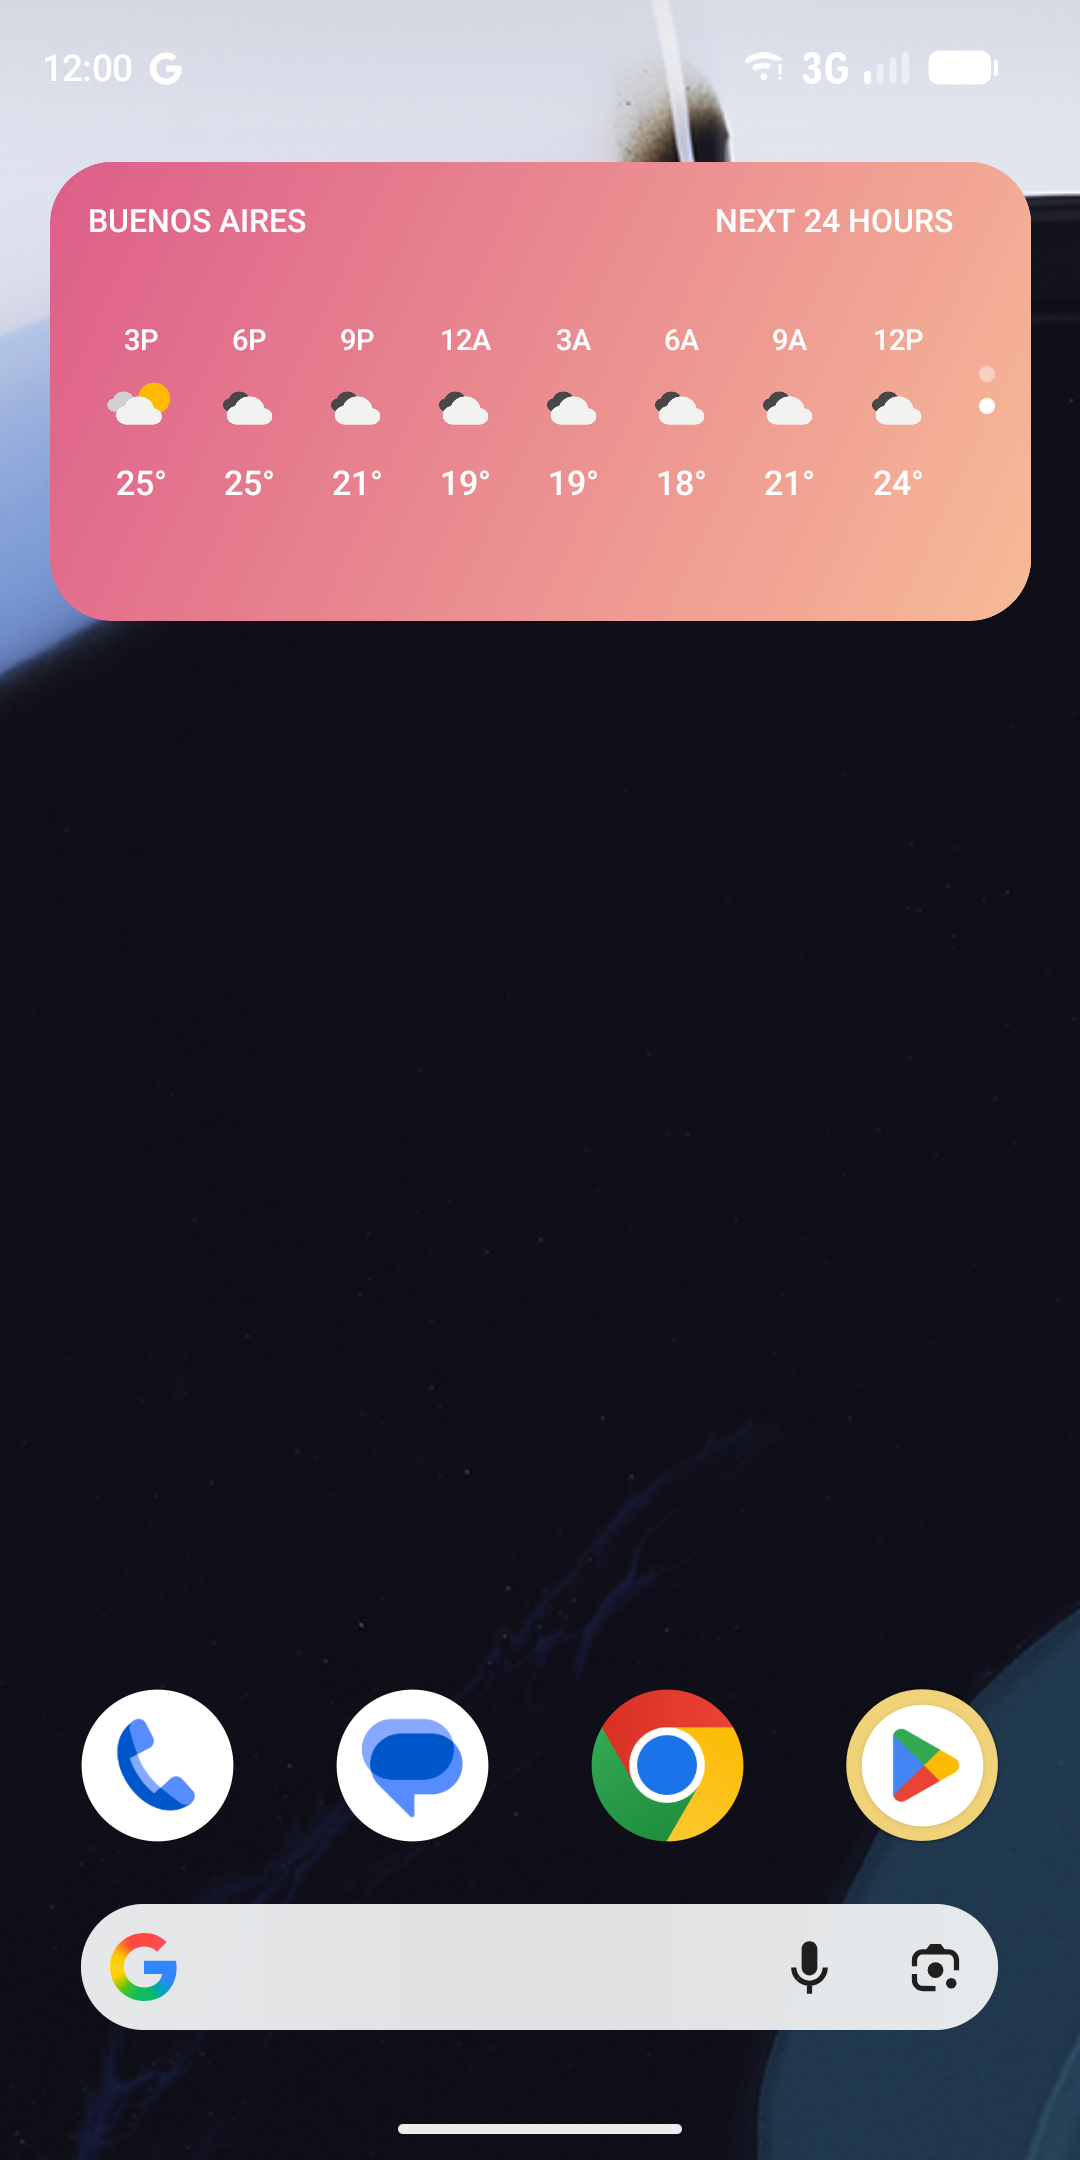
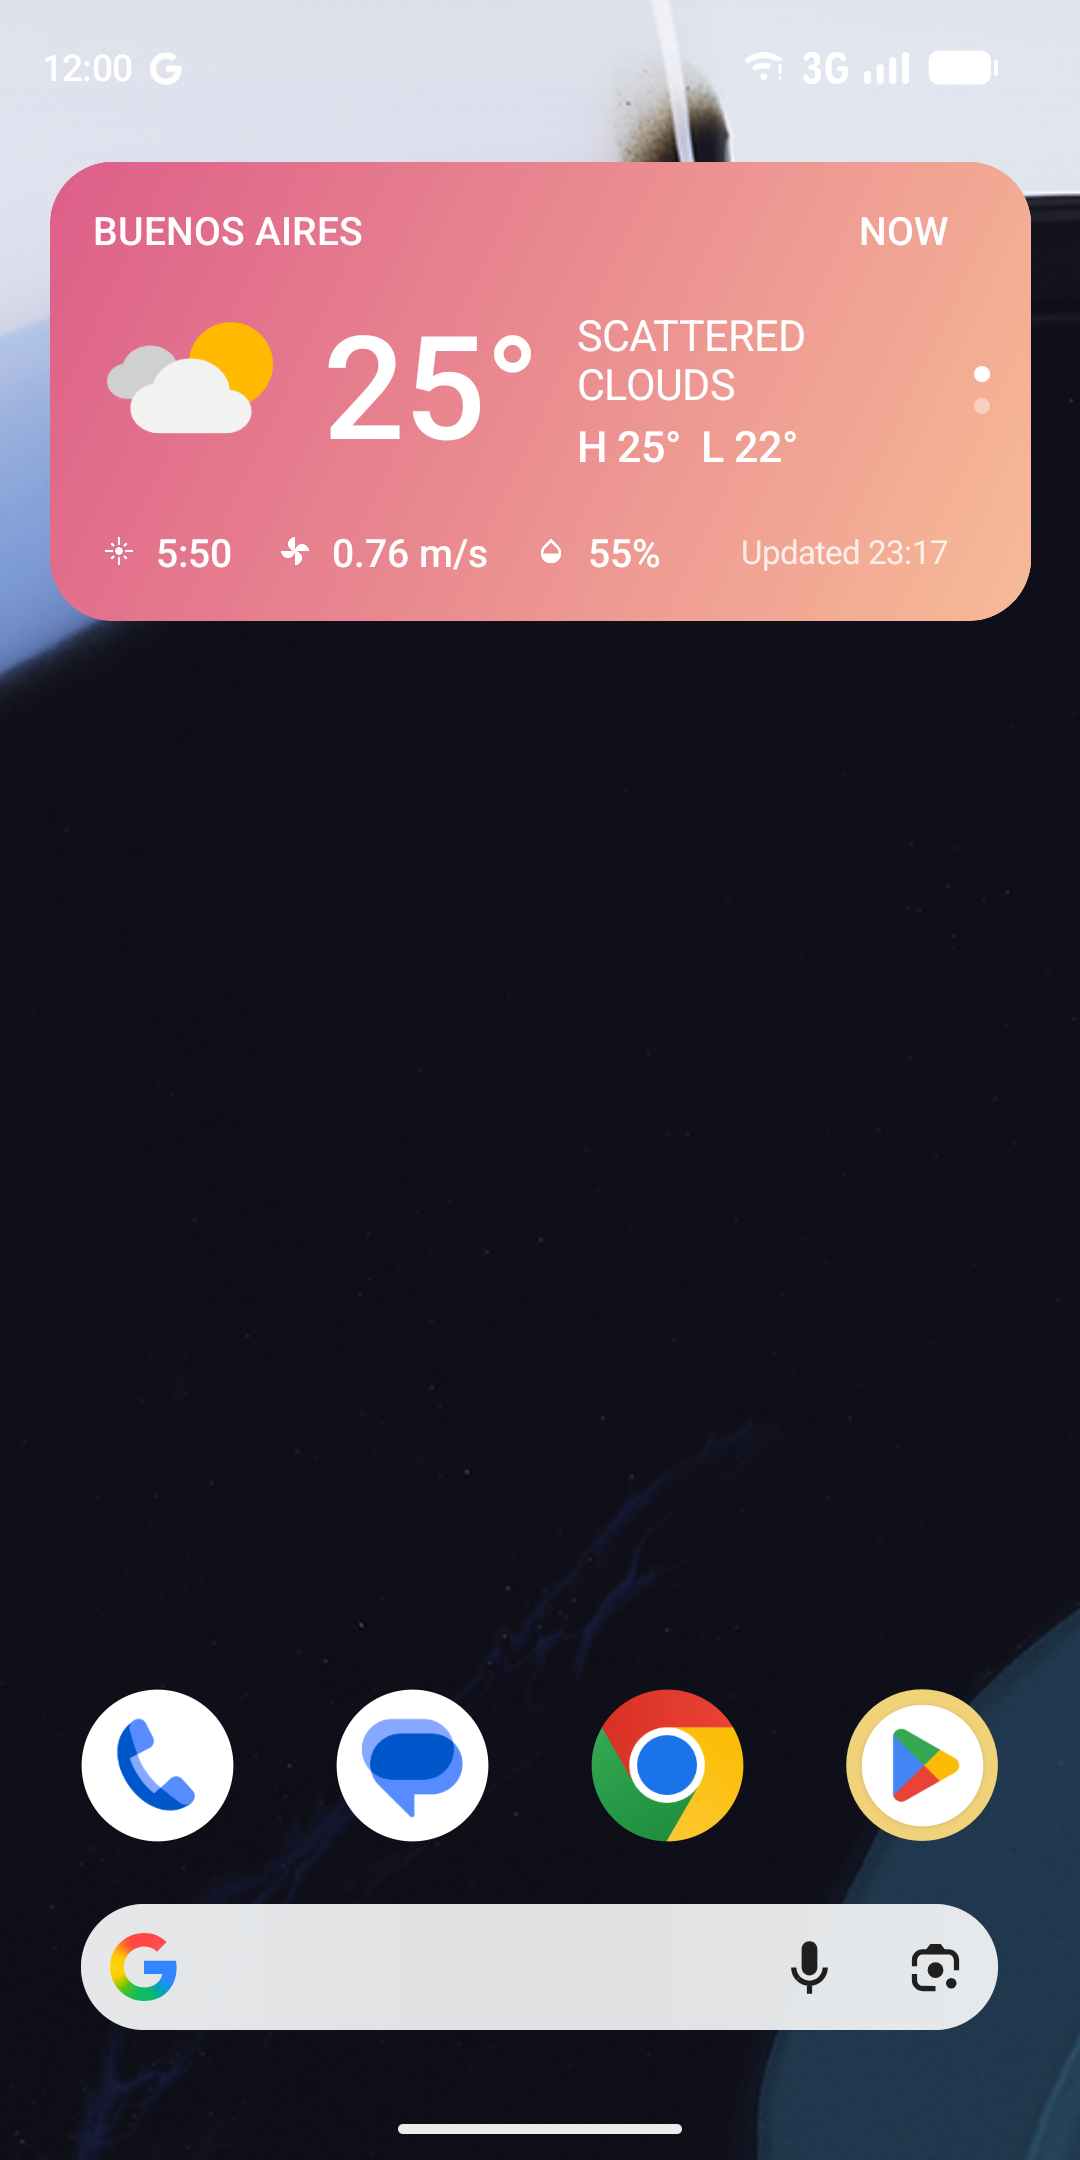
Widget: fill the card and show more on the Now page
The flat card left the content small inside a full 4x2 widget. The Now
page now has a larger icon and temperature, the description with high/low
beside them, and a row with sunrise, wind and humidity using the app's own
detail icons (rendered from icons.flr like the weather icons). On Android
12+ text and icons on both pages scale with the card, up to 1.6x.

diff --git a/android/app/src/main/kotlin/com/example/flutterweather/WeatherWidgetProvider.kt b/android/app/src/main/kotlin/com/example/flutterweather/WeatherWidgetProvider.kt
@@ -105,9 +105,9 @@ class WeatherWidgetProvider : HomeWidgetProvider() {
 
         val items = RemoteViewsCompat.RemoteCollectionItems.Builder().setViewTypeCount(2)
         if (content.city != null && content.now != null) {
-            items.addItem(0, nowCard(context, content.city, content.updated, content.now).sizedTo(size))
+            items.addItem(0, nowCard(context, content.city, content.updated, content.now, size).sizedTo(size))
             if (content.hours.isNotEmpty()) {
-                items.addItem(1, hoursCard(context, content.city, content.hours).sizedTo(size))
+                items.addItem(1, hoursCard(context, content.city, content.hours, size).sizedTo(size))
             }
         }
         RemoteViewsCompat.setRemoteAdapter(context, views, widgetId, R.id.widget_stack, items.build())
@@ -140,20 +140,37 @@ class WeatherWidgetProvider : HomeWidgetProvider() {
         setViewLayoutHeight(root, card.height, TypedValue.COMPLEX_UNIT_DIP)
     }
 
-    private fun nowCard(context: Context, city: String, updated: String, now: JSONObject) =
+    private fun nowCard(context: Context, city: String, updated: String, now: JSONObject, card: SizeF?) =
         RemoteViews(context.packageName, R.layout.weather_widget_item).apply {
             setTextViewText(R.id.card_city, city)
             setImageViewResource(R.id.card_icon, iconFor(now.optString("icon")))
             setTextViewText(R.id.card_temperature, now.optString("temperature"))
             setTextViewText(R.id.card_description, now.optString("description"))
             setTextViewText(R.id.card_detail, now.optString("detail"))
+            setTextViewText(R.id.card_sunrise, now.optString("sunrise"))
+            setTextViewText(R.id.card_wind, now.optString("wind"))
+            setTextViewText(R.id.card_humidity, now.optString("humidity"))
             setTextViewText(R.id.card_updated, context.getString(R.string.widget_updated, updated))
             setOnClickFillInIntent(R.id.card_root, Intent())
+
+            val scale = scaleFor(card)
+            text(R.id.card_city, 12f, scale)
+            text(R.id.card_label, 12f, scale)
+            text(R.id.card_temperature, 44f, scale)
+            text(R.id.card_description, 13f, scale)
+            text(R.id.card_detail, 13f, scale)
+            listOf(R.id.card_sunrise, R.id.card_wind, R.id.card_humidity).forEach { text(it, 12f, scale) }
+            text(R.id.card_updated, 10f, scale)
+            image(R.id.card_icon, 64f, scale)
+            listOf(R.id.card_sunrise_icon, R.id.card_wind_icon, R.id.card_humidity_icon).forEach { image(it, 16f, scale) }
         }
 
-    private fun hoursCard(context: Context, city: String, hours: List<JSONObject>) =
+    private fun hoursCard(context: Context, city: String, hours: List<JSONObject>, card: SizeF?) =
         RemoteViews(context.packageName, R.layout.weather_widget_hours).apply {
+            val scale = scaleFor(card)
             setTextViewText(R.id.hours_city, city)
+            text(R.id.hours_city, 12f, scale)
+            text(R.id.hours_label, 12f, scale)
             removeAllViews(R.id.hours_row)
             hours.forEach { hour ->
                 addView(
@@ -162,11 +179,34 @@ class WeatherWidgetProvider : HomeWidgetProvider() {
                         setTextViewText(R.id.hour_label, hour.optString("label"))
                         setImageViewResource(R.id.hour_icon, iconFor(hour.optString("icon")))
                         setTextViewText(R.id.hour_temperature, hour.optString("temperature"))
+                        text(R.id.hour_label, 11f, scale)
+                        text(R.id.hour_temperature, 14f, scale)
+                        image(R.id.hour_icon, 30f, scale)
                     },
                 )
             }
             setOnClickFillInIntent(R.id.hours_root, Intent())
         }
+
+    /**
+     * How much to enlarge the pages' text and icons so they fill a bigger card.
+     * The layouts are designed for the minimum size (about 250 x 110 dp); the
+     * scale is capped by both dimensions so nothing overflows.
+     */
+    private fun scaleFor(card: SizeF?): Float {
+        if (card == null) return 1f
+        return minOf(card.height / 125f, card.width / 300f).coerceIn(1f, 1.6f)
+    }
+
+    private fun RemoteViews.text(id: Int, sp: Float, scale: Float) {
+        if (scale != 1f) setTextViewTextSize(id, TypedValue.COMPLEX_UNIT_SP, sp * scale)
+    }
+
+    private fun RemoteViews.image(id: Int, dp: Float, scale: Float) {
+        if (scale == 1f || Build.VERSION.SDK_INT < Build.VERSION_CODES.S) return
+        setViewLayoutWidth(id, dp * scale, TypedValue.COMPLEX_UNIT_DIP)
+        setViewLayoutHeight(id, dp * scale, TypedValue.COMPLEX_UNIT_DIP)
+    }
 
     /** Collection items can't have their own PendingIntents, only fill-ins for this template. */
     private fun openAppTemplate(context: Context): PendingIntent {

diff --git a/tool/render_widget_icons_test.dart b/tool/render_widget_icons_test.dart
@@ -13,6 +13,8 @@ import 'package:flutter/material.dart';
 import 'package:flutter/rendering.dart';
 import 'package:flutter_test/flutter_test.dart';
 
+const List<String> details = ['sun', 'wind', 'drop'];
+
 const List<String> icons = [
   'clear',
   'clear-night',
@@ -35,7 +37,8 @@ const Duration captureAt = Duration.zero;
 // Thunder only shows its lightning bolt partway through the loop.
 const Map<String, Duration> captureOverrides = {'thunder': Duration(milliseconds: 2000)};
 
-Future<void> render(WidgetTester tester, String icon, Duration at, String path) async {
+Future<void> render(WidgetTester tester, String icon, Duration at, String path,
+    {String file = 'assets/animations/cloudy.flr', String prefix = 'cloudy-'}) async {
   final key = GlobalKey();
   Widget build({required bool paused}) => Directionality(
         textDirection: TextDirection.ltr,
@@ -46,9 +49,9 @@ Future<void> render(WidgetTester tester, String icon, Duration at, String path) 
               width: 128,
               height: 128,
               child: FlareActor(
-                'assets/animations/cloudy.flr',
+                file,
                 alignment: Alignment.center,
-                animation: 'cloudy-$icon',
+                animation: '$prefix$icon',
                 isPaused: paused,
               ),
             ),
@@ -94,6 +97,11 @@ void main() {
     }
     for (final icon in icons) {
       await render(tester, icon, captureOverrides[icon] ?? captureAt, '$outDir/widget_icon_${icon.replaceAll('-', '_')}.png');
+    }
+    // The small white icons from the app's sunrise / wind / humidity chips.
+    for (final detail in details) {
+      await render(tester, detail, captureAt, '$outDir/widget_detail_$detail.png',
+          file: 'assets/animations/icons.flr', prefix: '');
     }
     await tester.pumpWidget(SizedBox());
     await tester.pump(const Duration(seconds: 10));

diff --git a/lib/services/weather_widget.dart b/lib/services/weather_widget.dart
@@ -36,6 +36,9 @@ class WeatherWidget {
             'icon': now.getIcon(),
             'description': (now.description ?? '').toUpperCase(),
             'detail': today == null ? '' : 'H ${_degrees(today.tempMax)}  L ${_degrees(today.tempMin)}',
+            'sunrise': _clock(now.sunrise, now.timezone),
+            'wind': '${now.windSpeed ?? '--'} m/s',
+            'humidity': '${now.humidity ?? '--'}%',
           }),
         ),
         HomeWidget.saveWidgetData<String>('hours', jsonEncode(_nextDay(report.hourly, updated))),
@@ -69,6 +72,15 @@ class WeatherWidget {
       if (picked.length == _hourColumns) break;
     }
     return picked;
+  }
+
+  /// Same format as the app's sunrise chip, e.g. "5:50".
+  static String _clock(int? epochSeconds, int? timezone) {
+    if (epochSeconds == null) return '--';
+    final DateTime time =
+        DateTime.fromMillisecondsSinceEpoch(epochSeconds * 1000, isUtc: true).add(Duration(seconds: timezone ?? 0));
+    final int hour = time.hour > 12 ? time.hour - 12 : time.hour;
+    return '$hour:${time.minute.toString().padLeft(2, '0')}';
   }
 
   static DateTime _localTime(Weather w) =>
